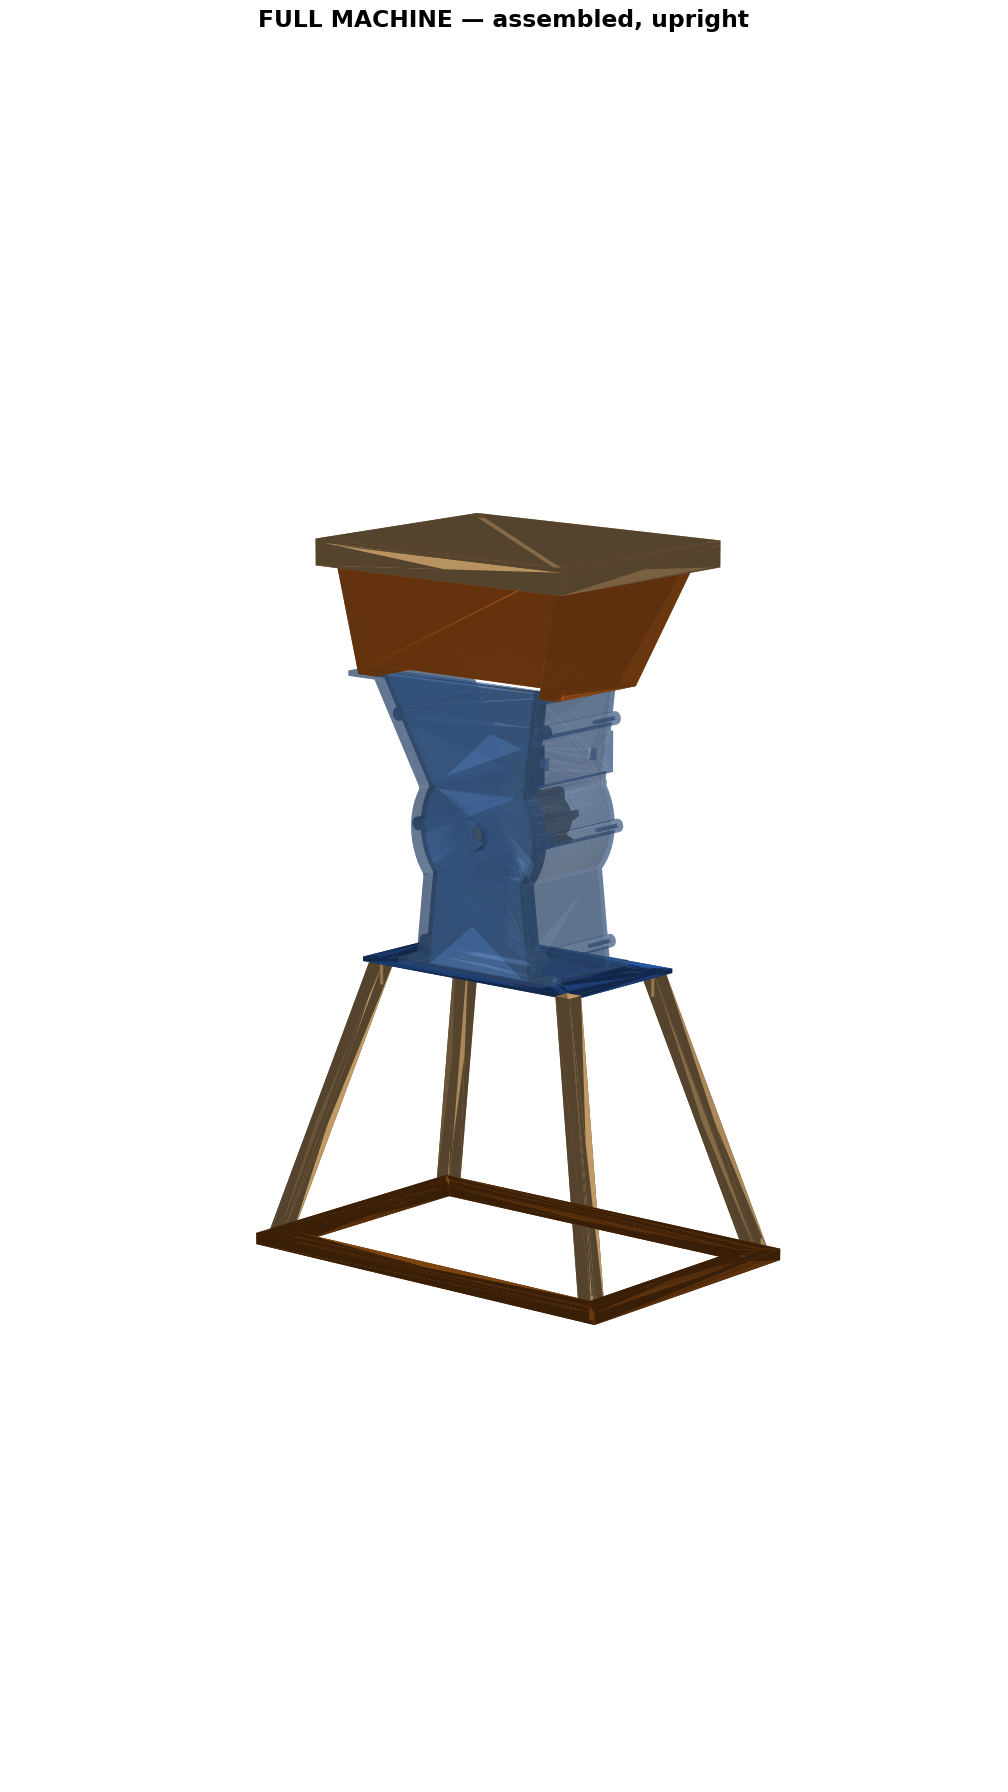
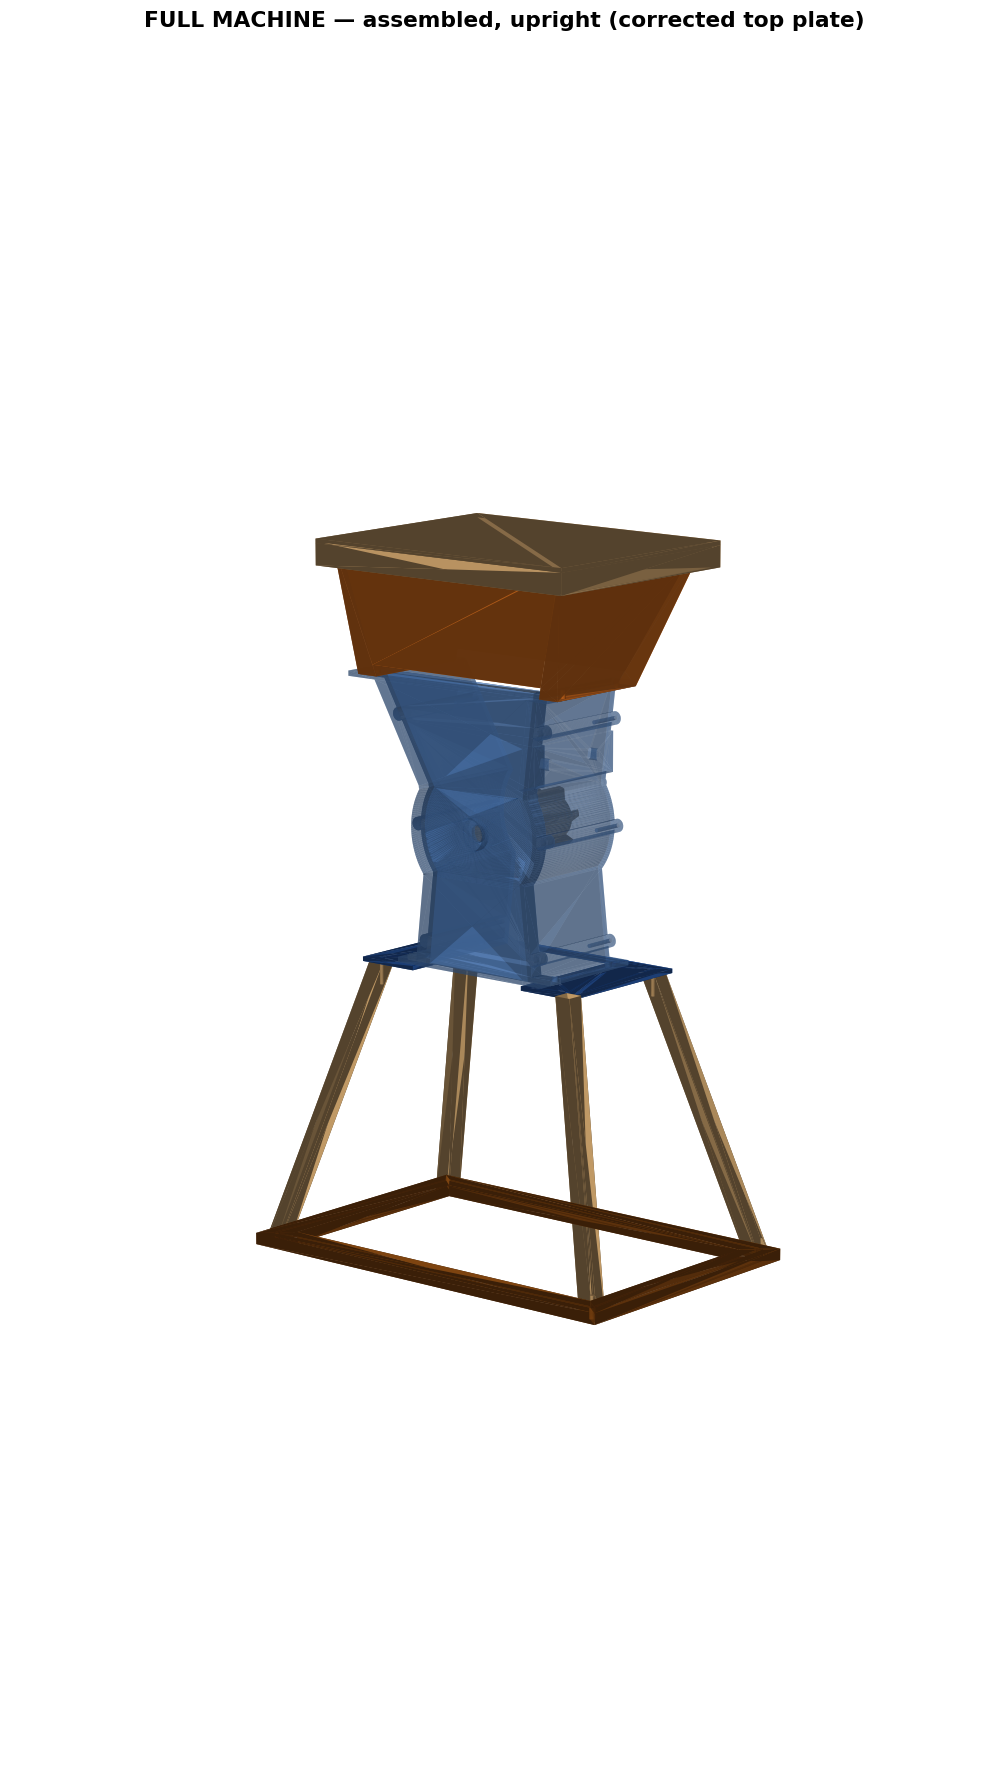
regenerate STL previews for updated stand-top-plate
- Re-render all part previews + contact sheet from current STLs
- Update stand-top-plate dims (184x106x3) after the fixed-plate revision
- Point Section 1 assembly image at the renamed render

Claude-Session: https://claude.ai/code/session_014YpfzHKte14D5BQrjfcig2

Changed region(s): [[0.1538, 0.0, 0.8611, 0.0312], [0.4306, 0.5312, 0.5843, 0.5625]]

diff --git a/hardware/README.md b/hardware/README.md
@@ -29,7 +29,7 @@ your printer's bed. Preview renders are in [`stl/previews/`](stl/previews/).
 | `wheel-motor-bracket-v5-counterbore.stl` | 117 × 40 × 26 | Motor bracket (holds the NEMA 17)   |
 | `hopper-extension-onepiece.stl`  | 204 × 94 × 150    | Hopper body; bolts to the housing mouth |
 | `hopper-lid.stl`                 | 212 × 18 × 166    | Hopper lid (friction fit, no hardware) |
-| `stand-top-plate.stl`            | 180 × 99 × 3      | Plate the housing mounts to            |
+| `stand-top-plate.stl`            | 184 × 106 × 3     | Plate the housing mounts to            |
 | `stand-leg-single.stl`           | 70 × 200 × 57     | Leg — print **×4** (1 + mirror 3 in your slicer) |
 | `stand-bottom-frame.stl`         | 300 × 8 × 200     | Base frame tying the legs together     |
 
@@ -82,7 +82,7 @@ Wiring and pin map: [`../firmware/README.md`](../firmware/README.md).
 
 ### Section 1 — Stand
 
-![Section 1 — Stand (with hardware)](section1-stand-hardware-v2.png)
+![Section 1 — Stand (with hardware)](section1-stand-fixed-plate-v2.png)
 
 1. **Frame** — lay `stand-bottom-frame` flat on the table.
 2. **Legs ×4** — fit a leg into each frame corner and fasten from below with
